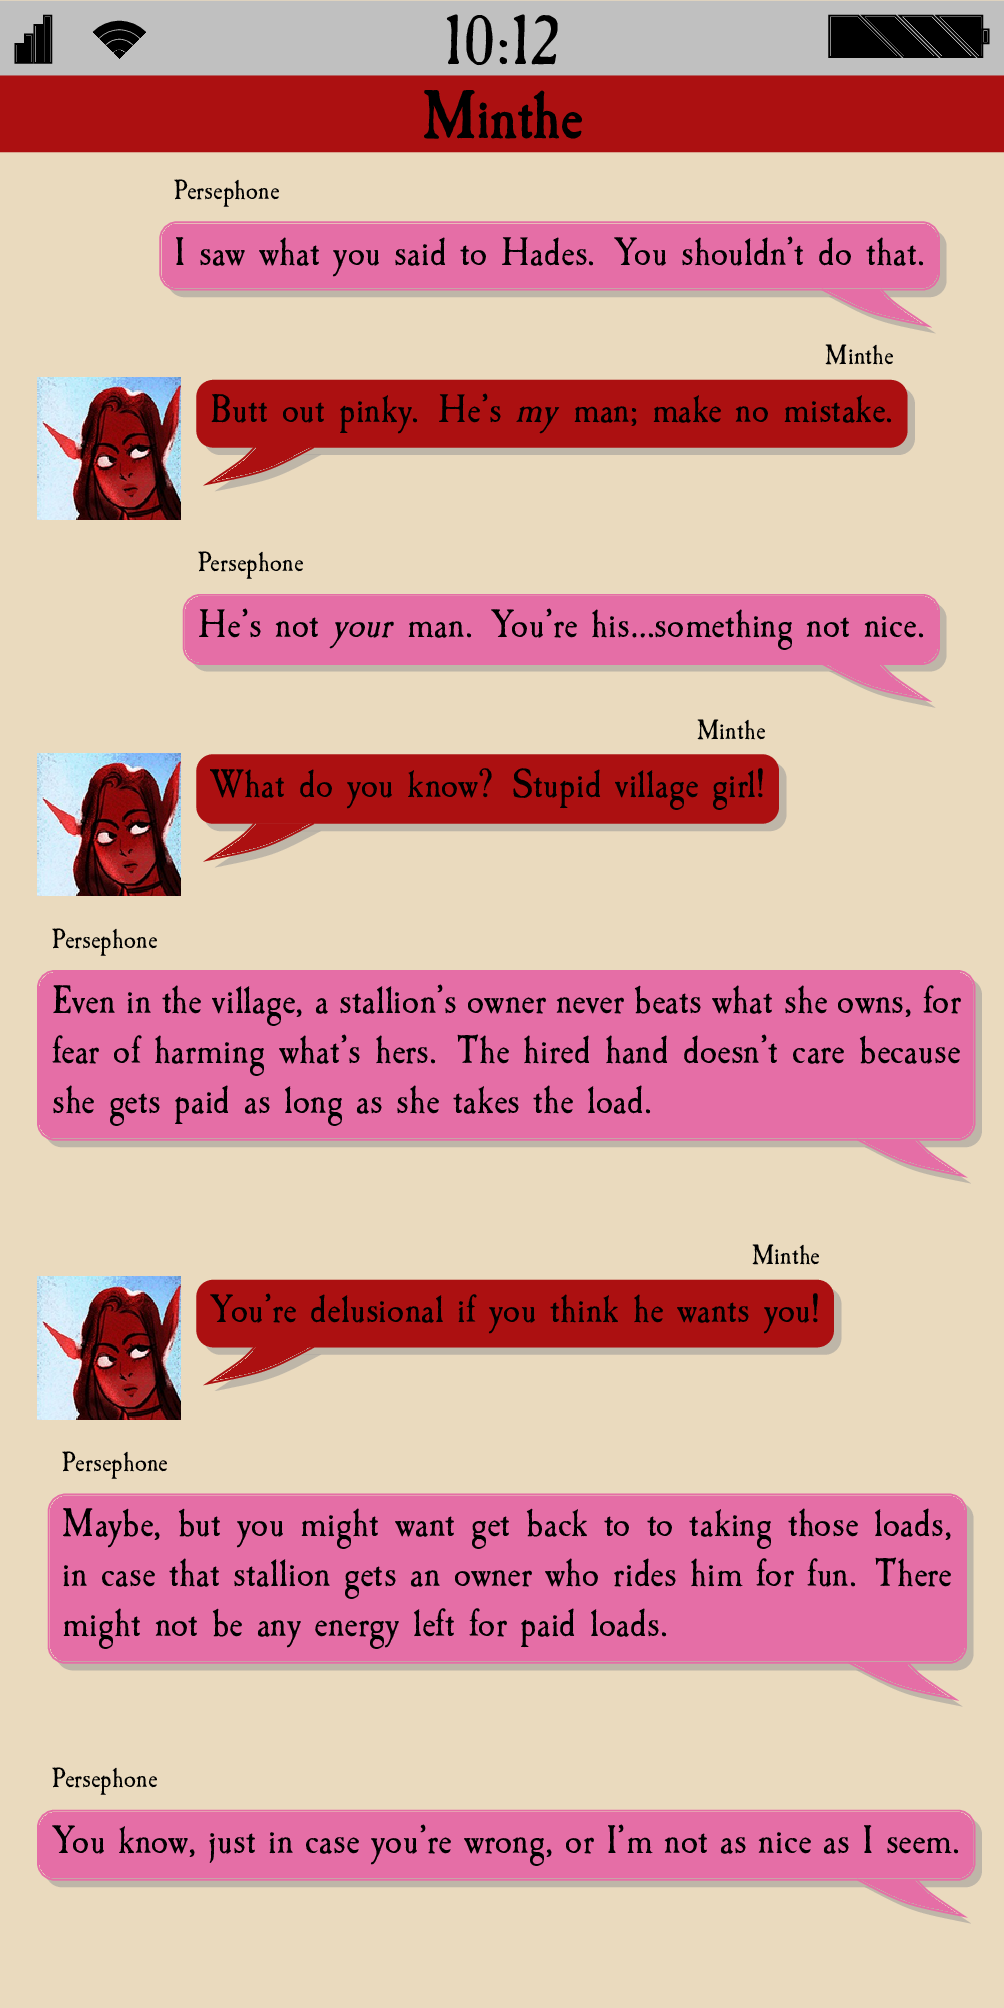
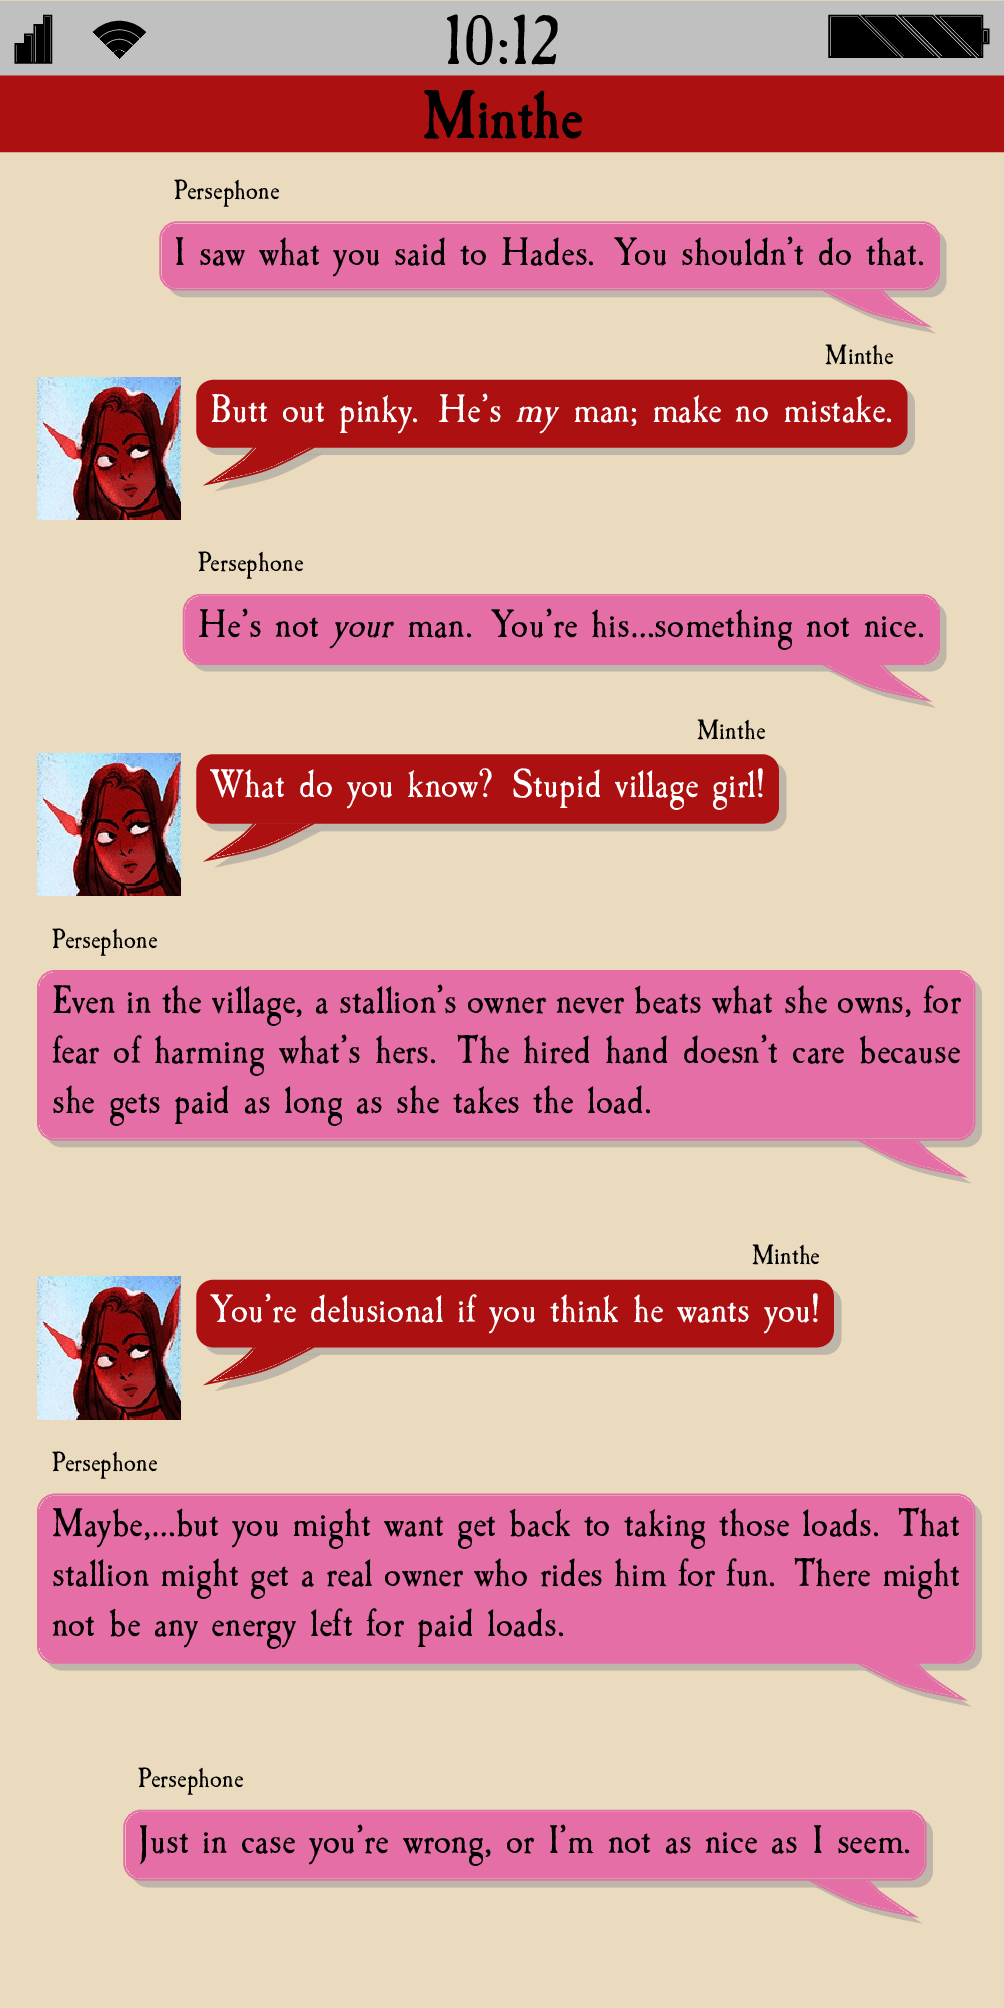
Fixed a few things on 'horse'

diff --git a/_posts/2020/01/2020-01-10-Persephone_lays_some_village_wisdom_on_Minthe.md b/_posts/2020/01/2020-01-10-Persephone_lays_some_village_wisdom_on_Minthe.md
@@ -12,4 +12,4 @@ date: 2020-01-10
 
 <hr>
 
-Persephone so badly wants to stand up for Hades, and lays some serious shade (of the 21^st^ century variety), but can't bring herself to be totally mean.
+Persephone so badly wants to stand up for Hades, and casts some serious shade (of the 21<sup>st</sup>&ndash;century variety), but can't bring herself to be totally mean. Also, although Persephone is making a few double entendres here, I think she is doing it completely unawares. Minthe wouldn't think so, though.
